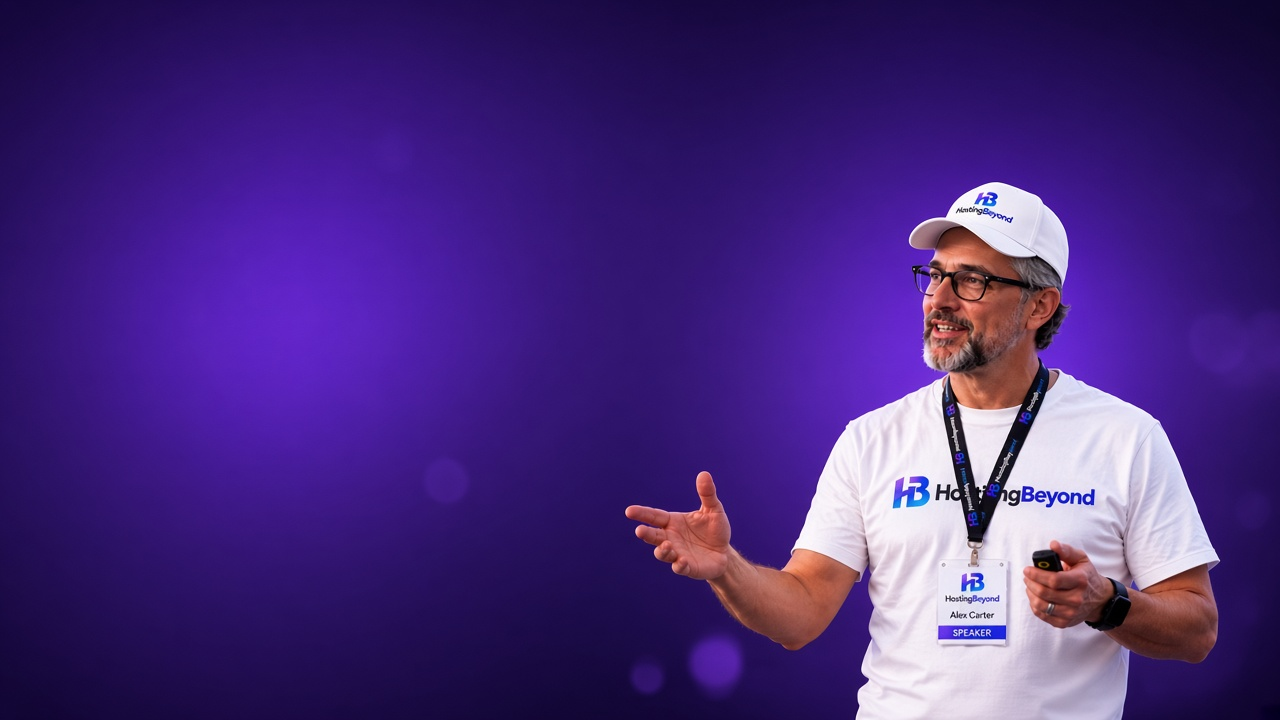
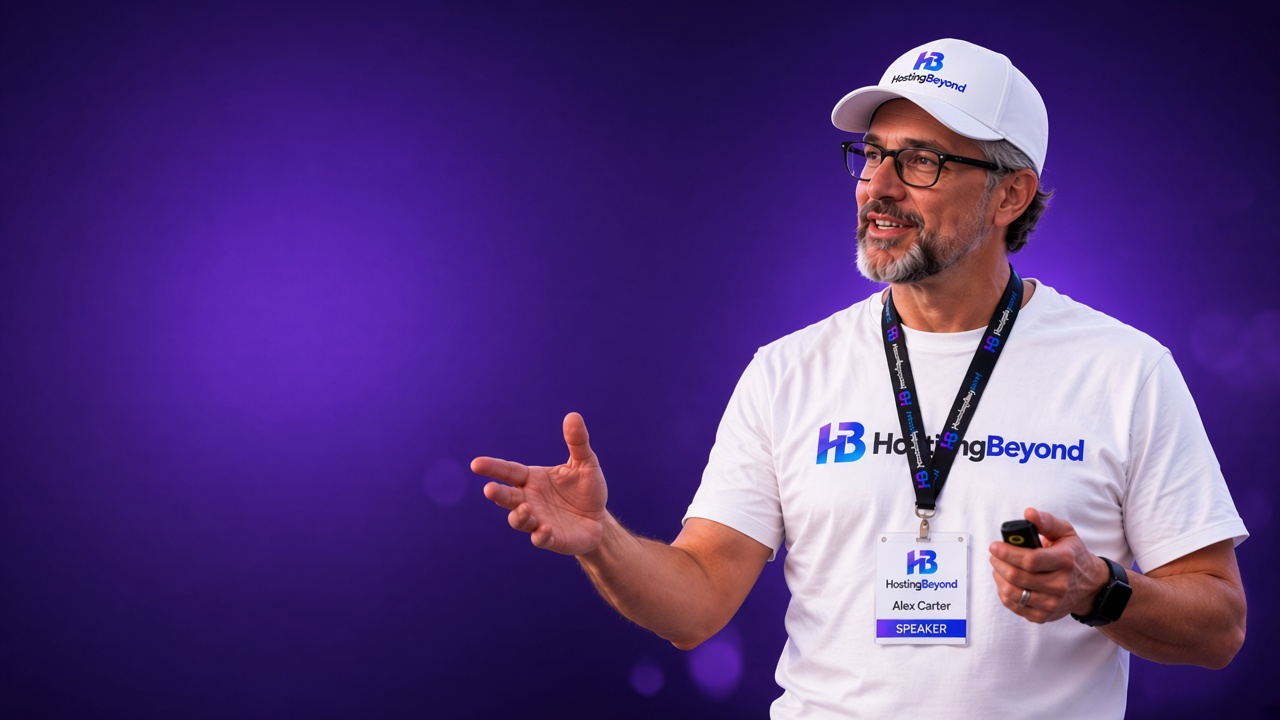
feat: swap in a 4K hero plate with the speaker framed larger
Bring back the close framing the design calls for, pulled back just enough that the cap clears the top edge on every viewport.

Changed region(s): [[0.3438, 0.0306, 1.0, 1.0], [0.8125, 0.9778, 0.875, 1.0]]

diff --git a/components/home/hero.tsx b/components/home/hero.tsx
@@ -260,7 +260,7 @@ export function HeroSection({ content }: { content?: CmsHeroContent }) {
             priority
             unoptimized
             sizes="100vw"
-            className="scale-[1.08] object-cover object-[71%_24%]"
+            className="object-cover object-[88%_50%]"
           />
         </motion.div>
       </div>

diff --git a/app/globals.css b/app/globals.css
@@ -148,7 +148,7 @@
       background-image: url("/images/hero-speaker-v6.webp");
       background-repeat: no-repeat;
       background-size: cover;
-      background-position: center 32%;
+      background-position: center 22%;
     }
   }
 
